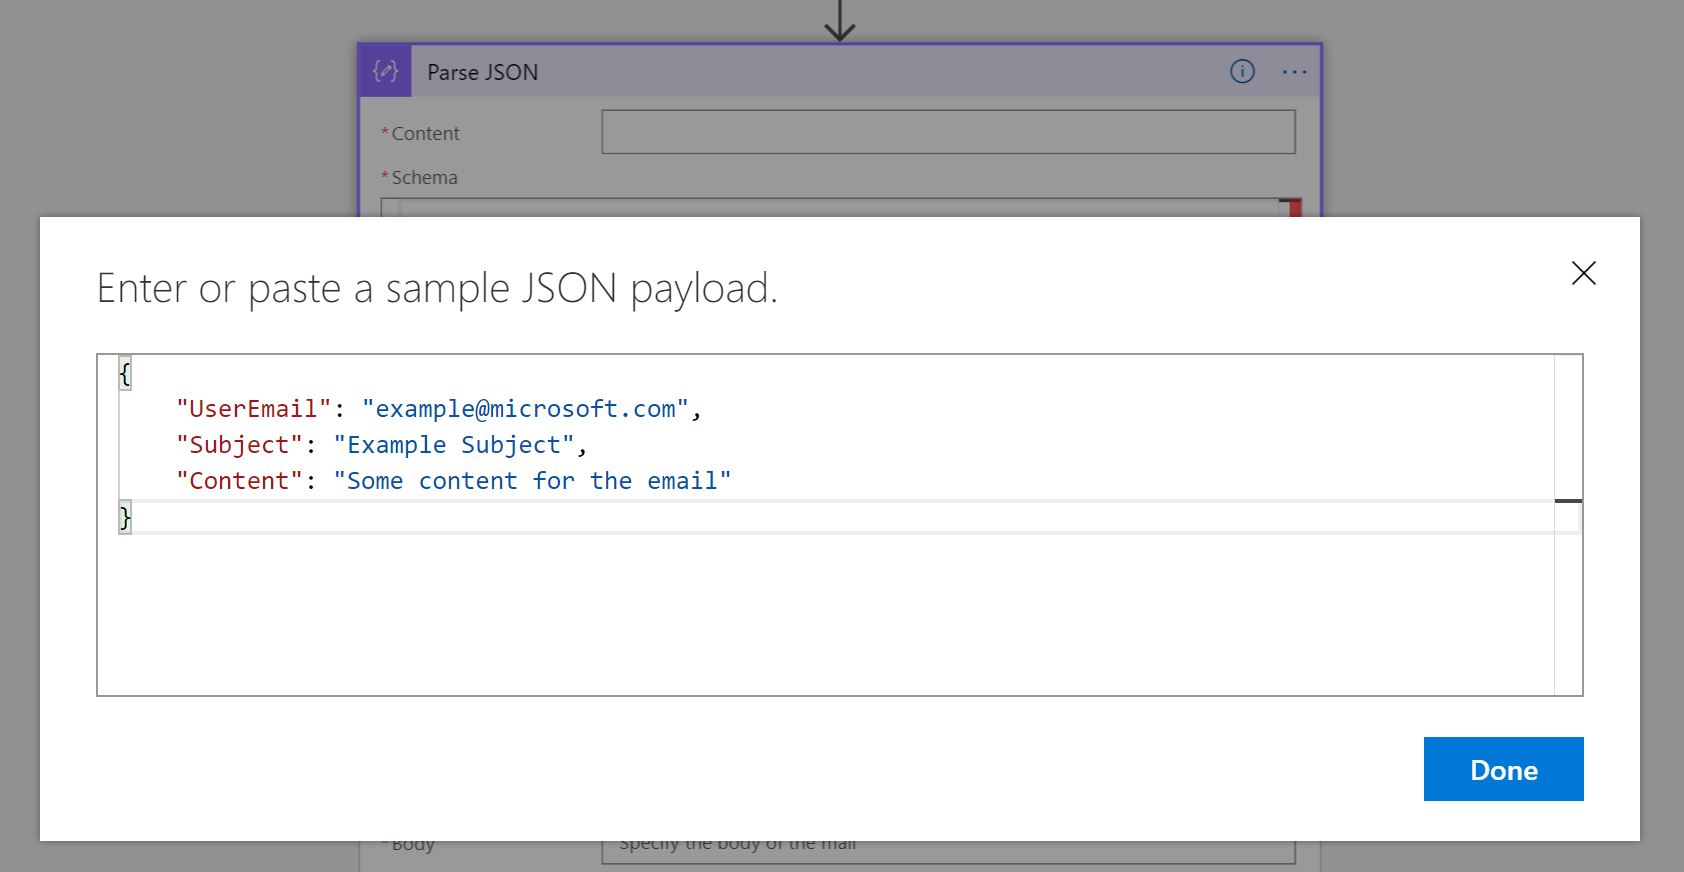
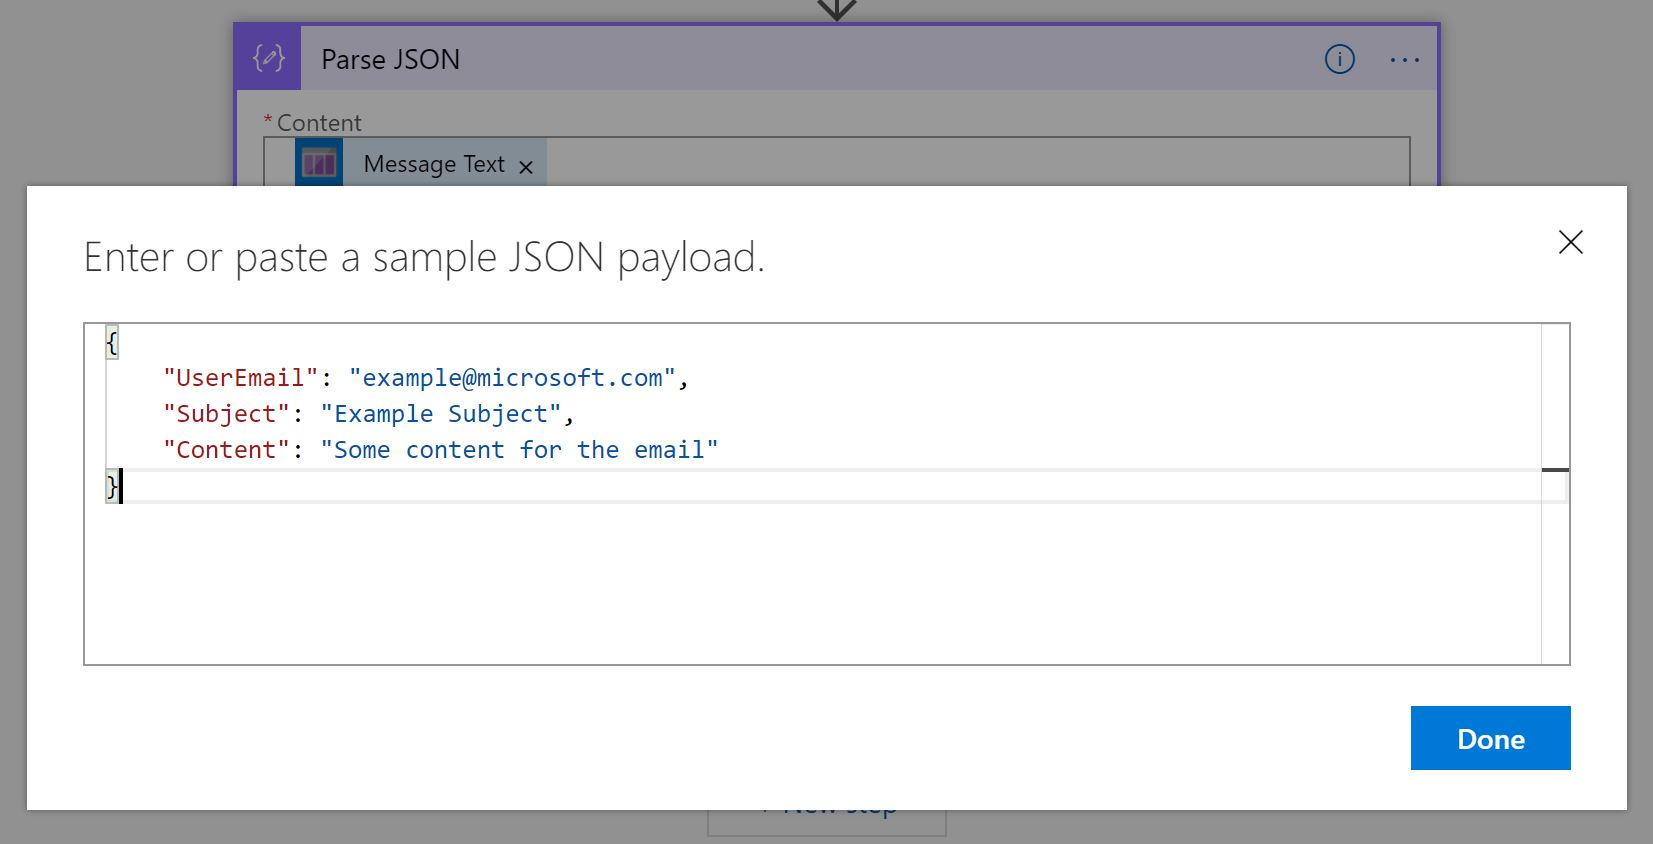
add all content for json in logic apps blog post

Changed region(s): [[0.0, 0.0, 0.9873, 1.0], [0.0617, 0.2773, 0.4628, 0.3697], [0.0617, 0.5545, 0.0926, 0.6161]]

diff --git a/src/blogPosts/JSON_Operations_In_Azure_Logic_Apps.js b/src/blogPosts/JSON_Operations_In_Azure_Logic_Apps.js
@@ -1,38 +1,65 @@
 import React, { Component } from 'react';
 import SyntaxHighlighter from 'react-syntax-highlighter';
-import { monokaiSublime } from 'react-syntax-highlighter/styles/hljs';
+import { monokaiSublime, vs } from 'react-syntax-highlighter/styles/hljs';
 import BlogPostTitle from '../components/BlogPostTitle';
 import BlogPostSubHeader from '../components/BlogPostSubHeader';
 
 class JSON_Operations_In_Azure_Logic_Apps extends Component {
 	render() {
-		const codeString1 = `npm install -g create-react-app`;;
+		const codeString1 = `public class EmailNotification
+    {
+        public string UserEmail { get; set; }
+        public string Subject { get; set; }
+        public string Content { get; set; }
+    }
+`;
+		const codeString2 = `@{json(INPUT_TO_CONVERT).PROPERTY_NAME}`;
+		const codeString3 = `@{json(triggerBody()[‘MessageText’]).PROPERTY_NAME}`;
 		return (
 			<div className="ms-font-m ms-fontWeight-semilight blogPost">
 
 				<BlogPostTitle title="JSON Operations in Azure Logic Apps" updatedDate="December 8, 2017" />
+				<p>Azure Logic Apps offer the ability to easily automate workflows without writing any code, instead using a visual interface found on the Azure Portal. Each step in a workflow will generally return a strongly typed object, and Logic Apps provide operations to inject the parameters of these objects into subsequent steps in the workflow. In several cases, however, Logic Apps will not be aware of the structure of an object and you will not have the ability to use Dynamic Content. Instead, you must perform additional operations to use the properties from these objects. </p>
+				<p>I’ll explore how to convert unknown objects into strongly typed JSON objects, both through the visual designer as well as actual code. To illustrate, I’ll guide you through a common scenario - triggering notification emails to a user of your service.  </p>
 
 				<BlogPostSubHeader subHeader="Dynamic Content in Known JSON Objects" />
-				<img src={require("../images/BlankLogicAppTemplate.jpg")}></img>
-				<img src={require("../images/HttpRequestSearch.jpg")}></img>
+				<p>It’s important to understand how Dynamic Content traditionally works in a Logic App, so let’s take a look at an example that uses an HTTP Request Trigger. The HTTP Request trigger will generate an HTTP endpoint that can receive incoming requests from any external service. The endpoint will be expecting POST requests that send JSON objects in the body. In this case, I am sending instantiations of the <span className="ms-fontWeight-semibold">EmailNotification</span> class in a .NET project. </p>
+				<SyntaxHighlighter language='cs' style={vs}>{codeString1}</SyntaxHighlighter>
+				<p>Logic Apps need to understand the structure of the objects you’ll be sending, and the interface gives you the ability to define an example payload. In this case, the Logic App will receive simple JSON objects with 3 string properties, <span className="ms-fontWeight-semibold">UserEmail</span>, <span className="ms-fontWeight-semibold">Subject</span>, and <span className="ms-fontWeight-semibold">Content</span>, in order to craft the notification email. </p>
+				<p>Within the HTTP Request trigger interface, you are able to provide a sample payload and the Logic App will intelligently produce a schema definition with strongly typed properties.</p>
 				<img src={require("../images/SampleJSONPayload.jpg")}></img>
+				<p>Resultant Schema:</p>
 				<img src={require("../images/HttpRequestSchema.jpg")}></img>
-				<img src={require("../images/SendAnEmailTrigger.jpg")}></img>
+				<p>After adding an <span className="ms-fontWeight-semibold">Office 365 Outlook – Send an Email</span> action, as soon as the cursor is placed in any of the email fields, Logic Apps offers Dynamic Content on the right side of the action! The results from the HTTP Request can now be easily placed into the email fields. </p>
 				<img src={require("../images/DynamicContentHttp.jpg")}></img>
+				<p>Any post requests made to the Logic App endpoint with a body that matches that schema definition will now successfully trigger emails! Incredibly easy, right? If Logic Apps isn’t aware of the structure of the JSON object returned from a step in the workflow, however, it can be a bit trickier. </p>
+
+				<BlogPostSubHeader subHeader="Unknown JSON Objects" />
+				<p>Let’s take a look at an example where Logic Apps cannot provide helpful Dynamic Content by default, and require transformations. Rather than make direct POST requests to your Logic App with an HTTP Request trigger, let’s add a layer of abstraction with an Azure Queue. Assume the same JSON object is being sent to a queue, and our Logic App workflow will be triggered when there are new messages in said queue. I’ve added the trigger <span className="ms-fontWeight-semibold">Azure Queues – When there are messages in a queue</span>.</p>
+				<p>Logic Apps can intelligently search your Azure resources and find available queues, so this Logic App will check for items in my <span className="ms-fontWeight-semibold">email</span> queue every <span className="ms-fontWeight-semibold">30 seconds</span>.</p>
+				<img src={require("../images/SearchCurrentQueues.jpg")}></img>
+				<p>Logic Apps are aware that queues have messages, but aren’t able to discern the structure of that message. They will give you <span className="ms-fontWeight-semibold">Message Text</span> in Dynamic Content, which contains your queue message, but that property has no additional structure.  </p>
+				<img src={require("../images/NoDynamicContent.jpg")}></img>
+				<p>An unknown JSON object is being sent through the Logic App workflow, and the interface can’t assist in injecting its properties into the following steps. Fortunately, we can run additional operations through code or the designer to solve this problem.</p>
 
 				<BlogPostSubHeader subHeader="Logic App Code View – JSON Expression" />
+				<p>The Logic App interface is built on top of underlying code, which you can access through the <span className="ms-fontWeight-semibold">Code View</span> pane. The Logic App code is a JSON object itself, and in this case the JSON that relates to the Outlook email is found in <span className="ms-fontWeight-semibold">definition -> actions -> Send_an_email</span>, which should itself have a series of null properties.</p>
 				<img src={require("../images/NullCodeView.jpg")}></img>
+				<p>Not only do Logic Apps provide Dynamic Content, but they provide helpful methods you can run called Expressions. You can also write these expressions from the same window as Dynamic Content, and do not have to use Code View for this purpose. Using the json() expression, you can convert an input to a JSON type value. The syntax is as follows:</p>
+				<SyntaxHighlighter language='javascript' style={monokaiSublime}>{codeString2}</SyntaxHighlighter>
+				<p>In this case, the input is the Message Text returned from the trigger:</p>
+				<SyntaxHighlighter language='javascript' style={monokaiSublime}>{codeString3}</SyntaxHighlighter>
+				<p>To reiterate, the properties in the JSON object being sent to the queue are UserEmail, Subject, and Content, so the finalized Send_an_email properties using this syntax are:</p>
 				<img src={require("../images/JsonExpression.jpg")}></img>
+				<p>Posting a message to the email queue will trigger the same email as the HTTP Request triggered Logic App!</p>
 
 				<BlogPostSubHeader subHeader="Logic App Designer - Parse JSON Data Operation" />
-				<img src={require("../images/QueueSearch.jpg")}></img>
-				<img src={require("../images/SearchCurrentQueues.jpg")}></img>
-				<img src={require("../images/NoDynamicContent.jpg")}></img>
+				<p>The same functionality can be implemented from the Logic App Designer by creating a new <span className="ms-fontWeight-semibold">Data Operations – Parse JSON</span> action to the workflow. Immediately following the Azure Queue trigger (or any step that creates a JSON object of unknown structure), search for “JSON” and add the action.</p>
 				<img src={require("../images/SearchDataOperationsJSON.jpg")}></img>
+				<p>The structure of Message Text is currently unknown to the Logic App, but a Parse JSON action is capable of producing a strongly typed schema definition, much like the HTTP Request trigger. The object’s properties must be specified explicitly, achieved by placing Message Text in the <span className="ms-fontWeight-semibold">Content</span> field, then clicking <span className="ms-fontWeight-semibold">Use sample payload to generate schema</span>, and providing the following payload:</p>
 				<img src={require("../images/ExampleJSONPayloadParseJSON.jpg")}></img>
+				<p>The Logic App will now convert any message sent into the queue into the proper JSON object for use within the ensuing Outlook email step.  Importantly, these properties are now available through Dynamic Content!</p>
 				<img src={require("../images/DynamicContentWithJSON.jpg")}></img>
-				<img src={require("../images/QueueSearchDelete.jpg")}></img>
-				<img src={require("../images/DeleteQueueMessageStep.jpg")}></img>
 
 			</div>
 		);
